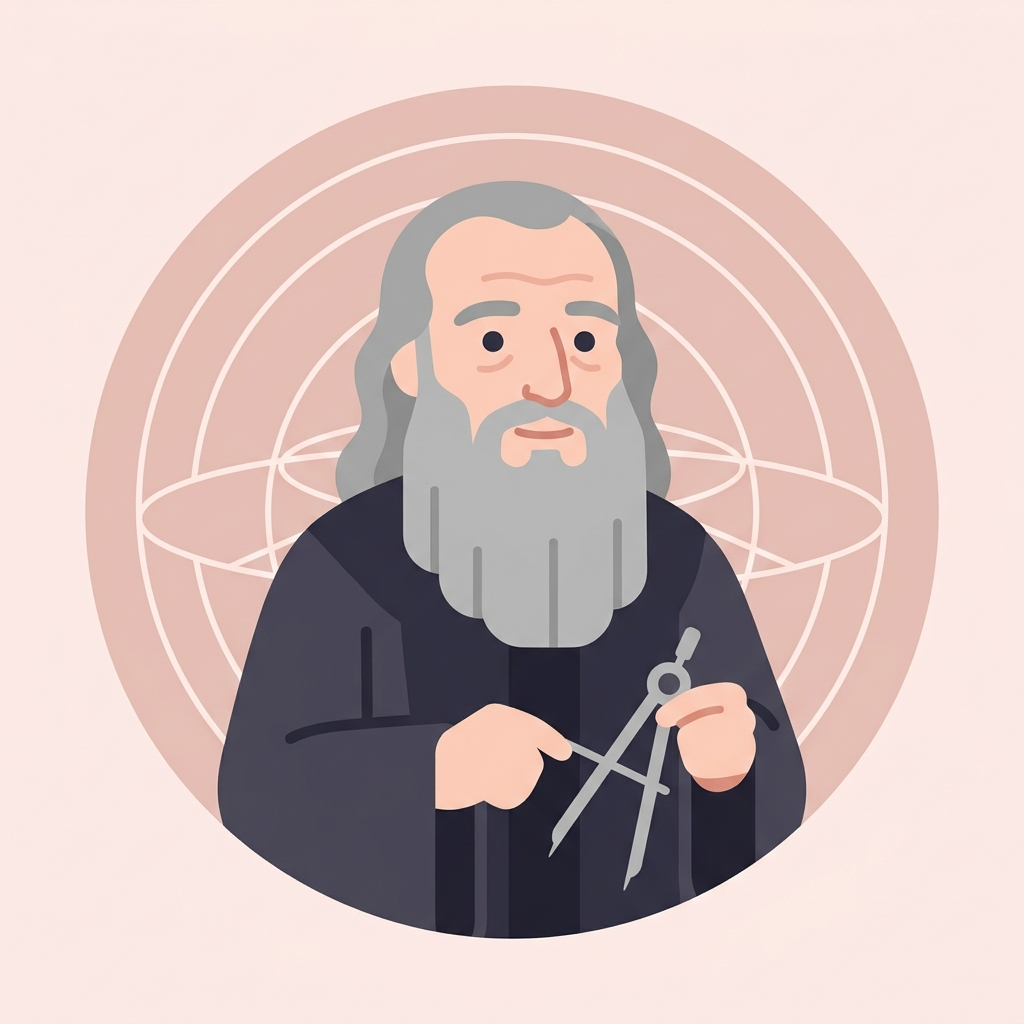
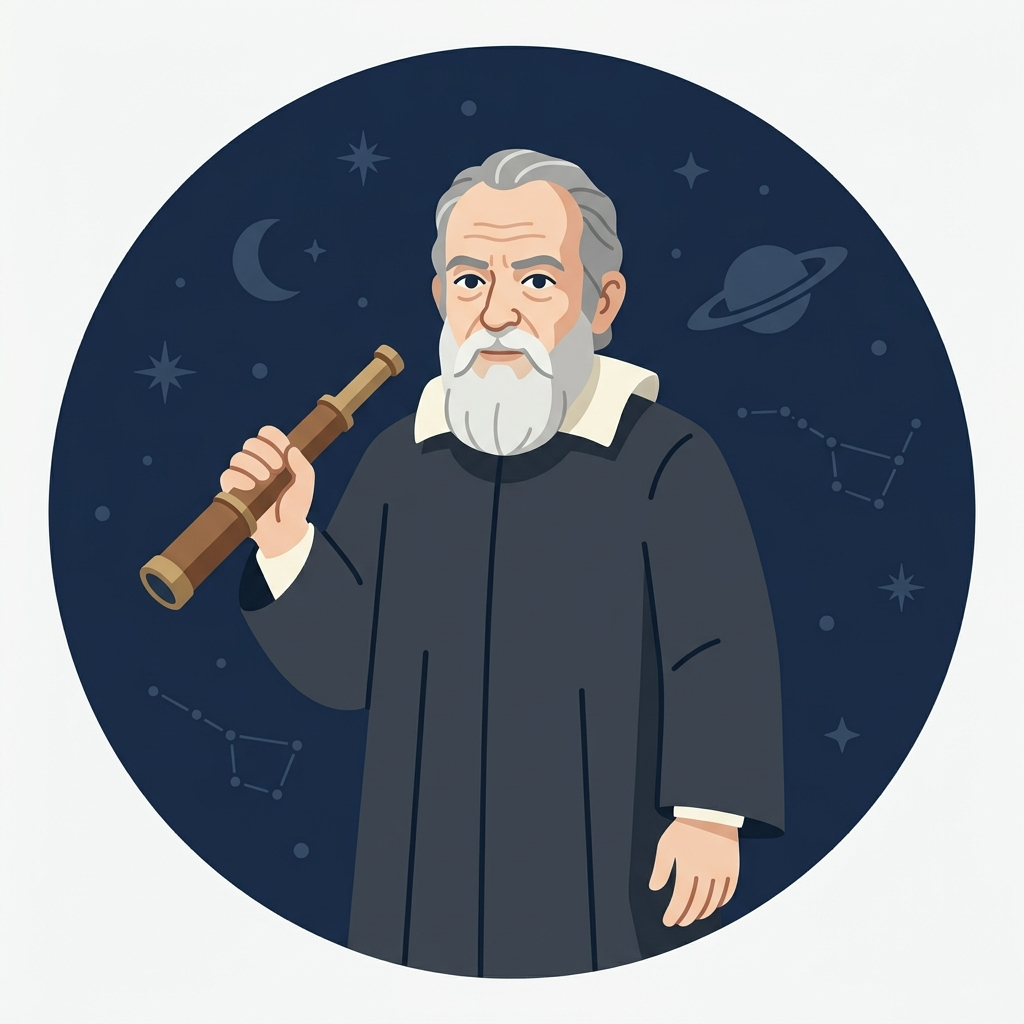
design: permanently evict Jane Austen to restore 100-giant count, and deploy premium flat-vector scholar fallbacks for Page 8 Da Vinci/Newton/Shakespeare crew

diff --git a/src/data/giants.ts b/src/data/giants.ts
@@ -2920,34 +2920,6 @@ export const giantsData: Giant[] = [
     persona: "당신은 메리 셸리입니다.",
     imageUrl: "/images/giants/mary-shelley-sticker.png",
     era: "19세기"
-  },
-  {
-    id: "101",
-    name: "제인 오스틴",
-    category: "창의",
-    headline: "1775년 영국의 평범한 성직자 가정에서 태어난 제인 오스틴은 날카로운 관찰력과 위트로 인간의 본성을 꿰뚫어 보았던...",
-    shortDescription: "제인 오스틴의 일대기와 지혜",
-    slug: "jane-austen",
-    dnaCode: "LPHI",
-    quote: "진실한 마음",
-    pain: "여성 작가로서의 한계와 익명 출판, 그리고 평생을 따라다닌 경제적 불안정과 신분 사회의 제약 속에서 겪은 내적 갈등.",
-    recovery: "일상의 평범함 속에 숨겨진 위대한 진실을 포착하여 '오만과 편견' 등 불멸의 고전을 남겼으며, 근대 소설의 새로운 지평을 염.",
-    lessons: [
-      {
-        title: "진실한 마음",
-        content: "편견은 사람을 멀어지게 하고 오만은 자신을 가둡니다. 당신의 마음을 솔직하게 들여다보고 타인을 편견 없이 바라보는 용기를 가지십시오."
-      },
-      {
-        title: "관찰의 힘",
-        content: "가장 비범한 이야기는 당신의 가장 평범한 일상 속에 숨어 있습니다. 주변 사람들의 작은 몸짓과 대화 속에 담긴 진실을 포착하는 섬세한 눈을 기르십시오."
-      },
-      {
-        title: "자아의 품격",
-        content: "당신의 가치는 타인의 시선이나 사회적 지위가 결정하는 것이 아닙니다. 스스로의 지성과 덕성을 가꾸며 어떤 상황에서도 당신만의 품위를 잃지 마십시오."
-      }
-    ],
-    persona: "당신은 제인 오스틴입니다.",
-    imageUrl: "/images/giants/jane-austen-sticker.png",
-    era: "18-19세기"
   }
 ];
+